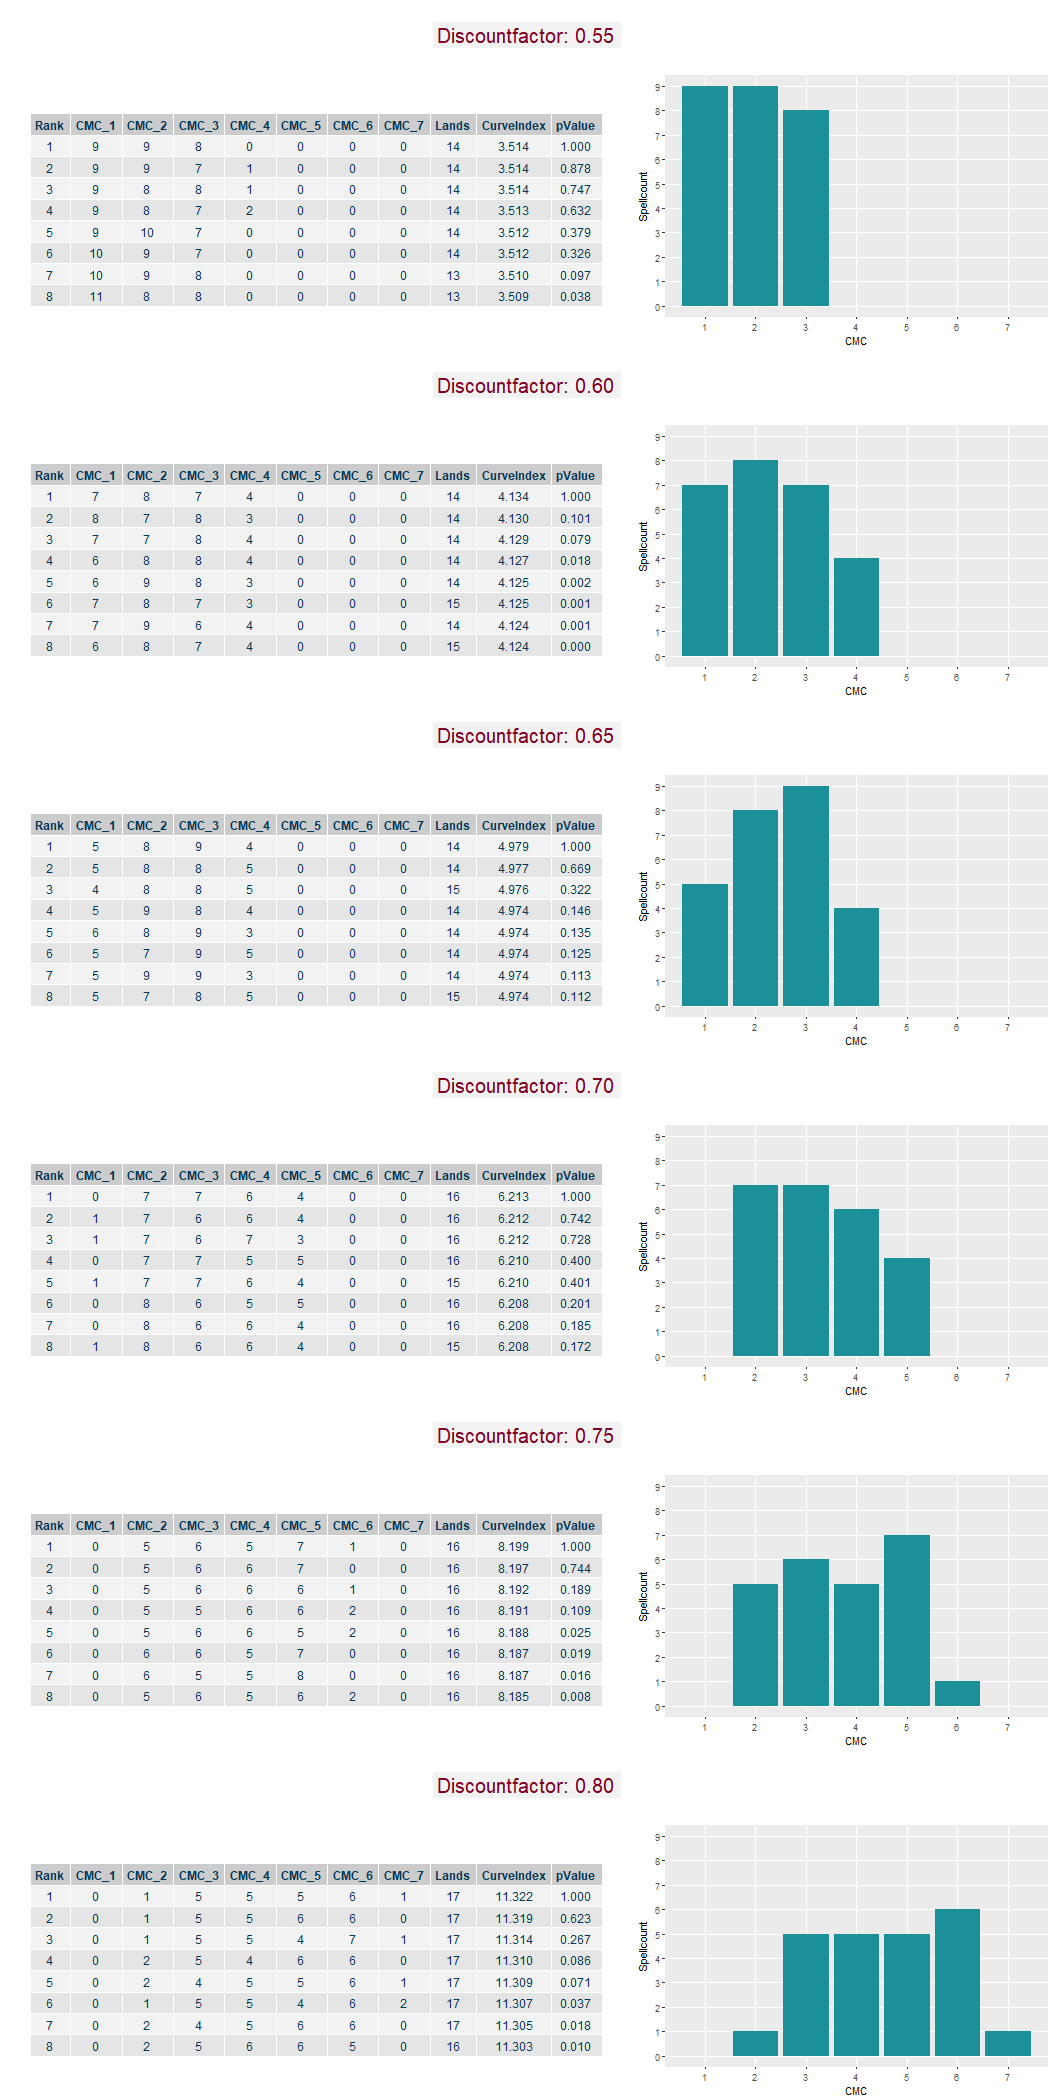
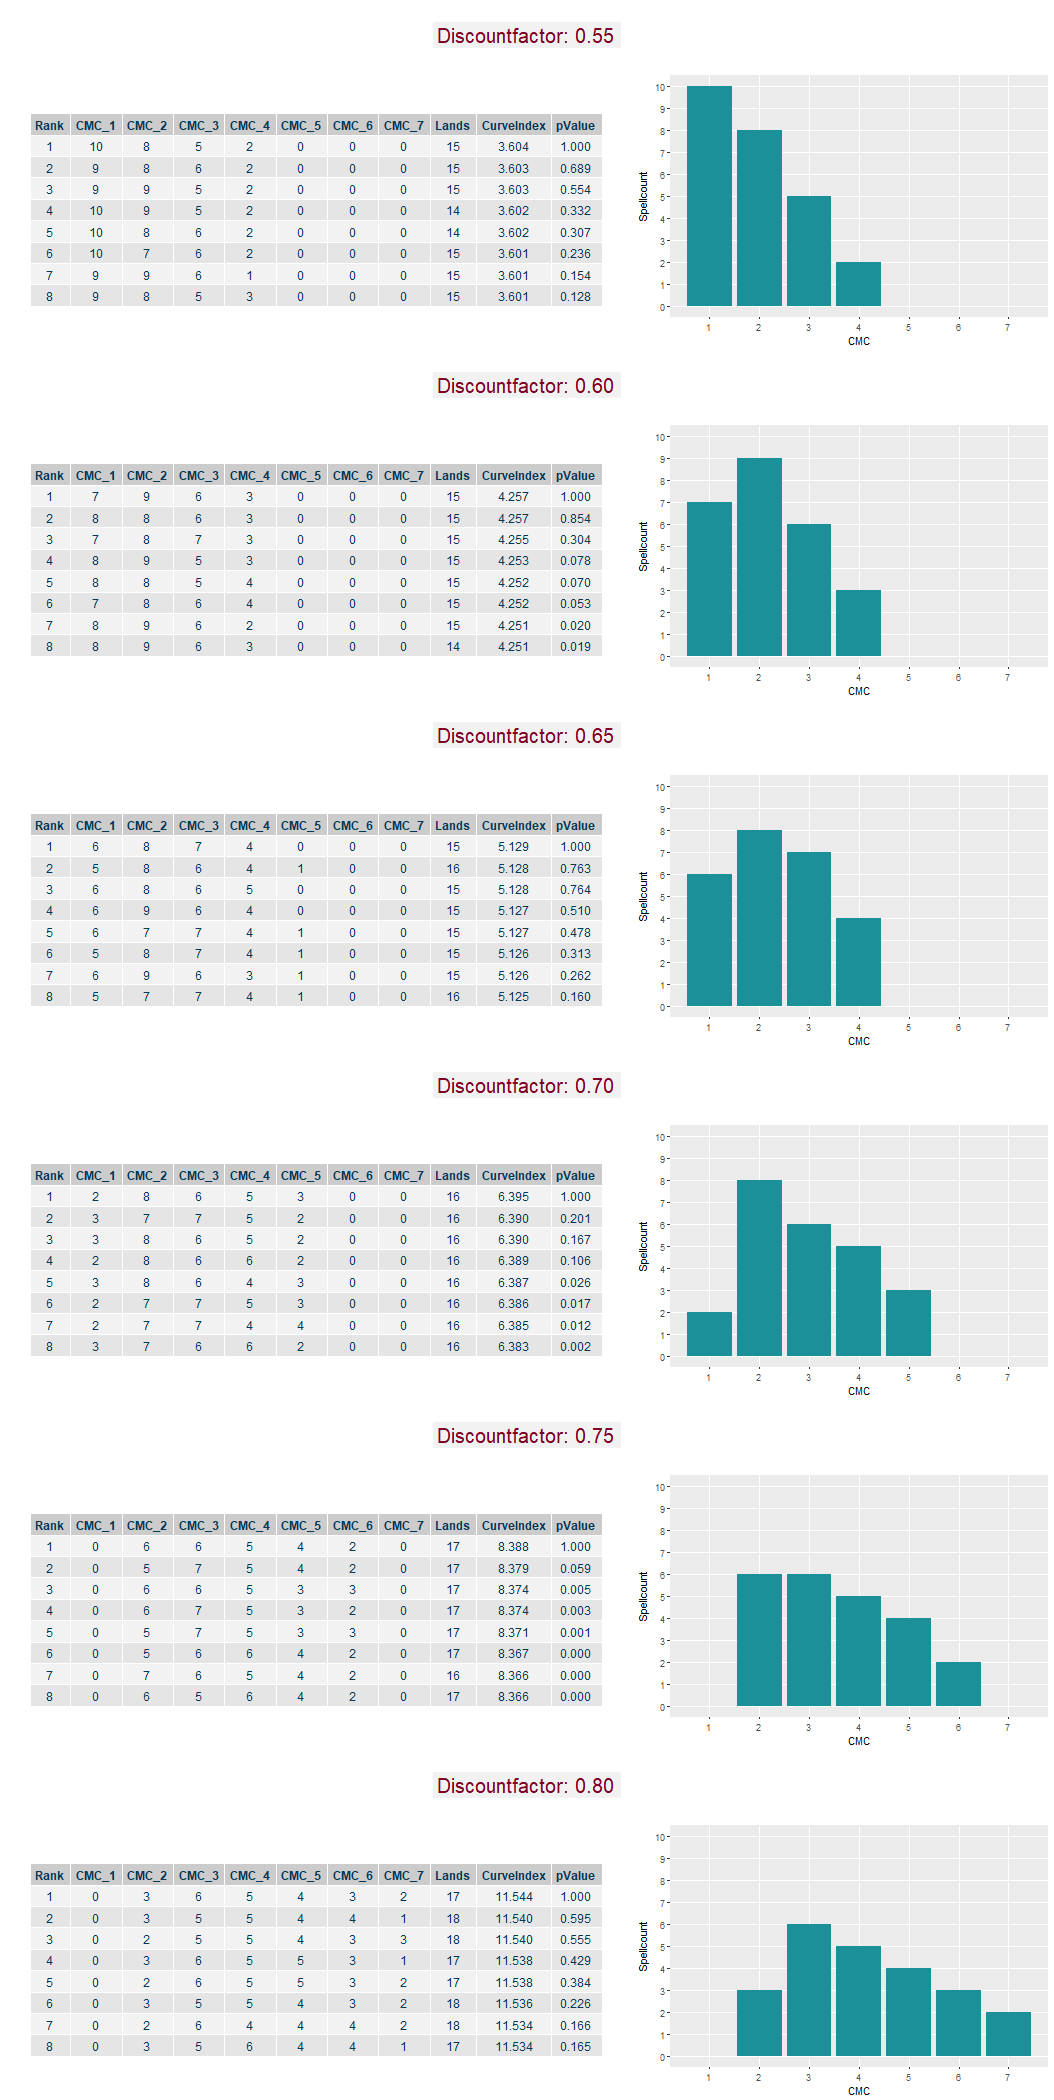
fix bug in curve evaluation

diff --git a/post/curve_considerations_continued/index.html b/post/curve_considerations_continued/index.html
@@ -246,6 +246,7 @@ The final result of this algorithm is a decklist <span class="math">\(\mathbf{x}
 <h2>The optimal mana curve</h2>
 <p>I applied the above search algorithm to the Discount-Index for various discount factors from 0.55 to 0.8 as presented in the last post. As a reminder, higher discount factors put more weight on the later turns and thus the corresponding index assesses deck performance within slower games.</p>
 <p>As a result from the search algorithm we do not only obtain the optimal mana curve for each index, but also a ranked list of mana curves together with their respective index results. Thus, we can assess the difference between the best and second best mana curve in terms of mean index result and the statistical significance of the difference to the best curve in terms of a <a href="https://en.wikipedia.org/wiki/P-value">p-value</a>. The p-value provides the probability for observing the actually measured difference in the mean index results of two deck lists assuming that both deck’s indices have the same mean. If you read the previous sentence multiple times and still don’t have clue: A p-value somewhere below 0.05 is widely considered to be a signal for an actual difference between two decks, whereas p-values above 0.05 don’t really tell us much about the existence of a real difference. In other words: even after having goldfished each of two decks about one-hundred thousand times, <span class="math">\(p &gt;0.05\)</span> means we are still not sure whether there is actually a difference between two mana curves. Here are the results:</p>
+<p><em>Erratum: I found and corrected a small bug in my code. Thus, the following results were updated on 2018/01/19. The overall take aways however remain the same.</em></p>
 <div class="figure" style="text-align: center"><span id="fig:unnamed-chunk-3"></span>
 <img src="../curveevaluation/curveresults.png" alt="Results from mana curve optimization for different Discount-Indices. Left: Table with top 8 deck lists and respective mean index results. Right: Optimal mana curve per Index."  />
 <p class="caption">
@@ -254,9 +255,9 @@ Figure 3: Results from mana curve optimization for different Discount-Indices. L
 </div>
 <p>Let’s take a look. To me, there are three things to notice here:</p>
 <ol style="list-style-type: decimal">
-<li><p>For each different Discount-Index, the optimal mana curve has indeed a more or less bell-shapy curve. However, the higher the underlying discount factor, the more expensive are the mana costs around the peak of the curve and the overall average costs of the spells. This is somewhat clear as higher discount factors allow for slower games. This effect is even so pronounced, that for the fastest curve index (discount factor 0.55) four-drops are too expensive whereas according to the slower index (0.70 or higher) any one-drops or even two-drops become garbage.</p></li>
-<li><p>The optimal land count ranges from 14 lands for cheap fast game mana curves up to 17 lands for the expensive curves within slow games. This is probably one or two lands fewer than most players would intuitively put into those decks considering the respective curve.</p></li>
-<li><p>The optimal mana curve is not significantly better than the next best curve configurations as indicated by the tables shown along the optimal curves. The actual difference in the index results is neglible if only a few card slots are exchanged, e.g. for the 0.65 Discount-Index the mana curve of <span class="math">\((5, 8, 9, 4, 0)\)</span> is effectively equal to a mana curve of <span class="math">\((5, 7, 8, 5, 0)\)</span> which even plays an additional land. The difference is not even statistically significant after over 100.000 simulated curve executions as indicated by the p-value. Thus, the optimal curve does not represent a peak of a steep ascent but rather a top of a shallow hill, almost plateau-like.</p></li>
+<li><p>For each different Discount-Index, the optimal mana curve has indeed a more or less bell-shapy curve. However, the higher the underlying discount factor, the more expensive are the mana costs around the peak of the curve and the overall average costs of the spells. This is somewhat clear as higher discount factors allow for slower games. This effect is even so pronounced, that for the fastest curve index (discount factor 0.55) four-drops are almost too expensive whereas according to the slower index (0.75 or higher) any one-drops or even two-drops become garbage.</p></li>
+<li><p>The optimal land count ranges from 14 lands for cheap fast game mana curves up to 18 lands for the expensive curves within slow games. This is probably one or two lands fewer than most players would intuitively put into those decks considering the respective curve.</p></li>
+<li><p>The optimal mana curve is not significantly better than the next best curve configurations as indicated by the tables shown along the optimal curves. The actual difference in the index results is neglible if only a few card slots are exchanged, e.g. for the 0.65 Discount-Index the mana curve of <span class="math">\((6, 8, 7, 4, 0)\)</span> is effectively equal to a mana curve of <span class="math">\((5, 8, 6, 4, 1)\)</span> which even plays an additional land. The difference is not even statistically significant after over 100.000 simulated curve executions as indicated by the p-value. Thus, the optimal curve does not represent a peak of a steep ascent but rather a top of a shallow hill, almost plateau-like.</p></li>
 </ol>
 <div id="reminder-text" class="section level3">
 <h3>Reminder Text</h3>
